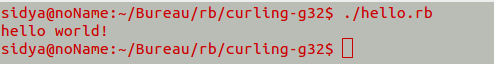
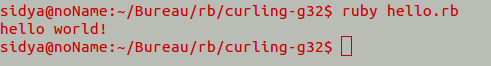
modified:   doc/Mise en place/Hello World.png 	modified:   hello.rb

diff --git a/hello.rb b/hello.rb
@@ -1,3 +1,1 @@
-#! /usr/bin/ruby
-
-print "hello world!\n"
+print "hello world!\n"	
